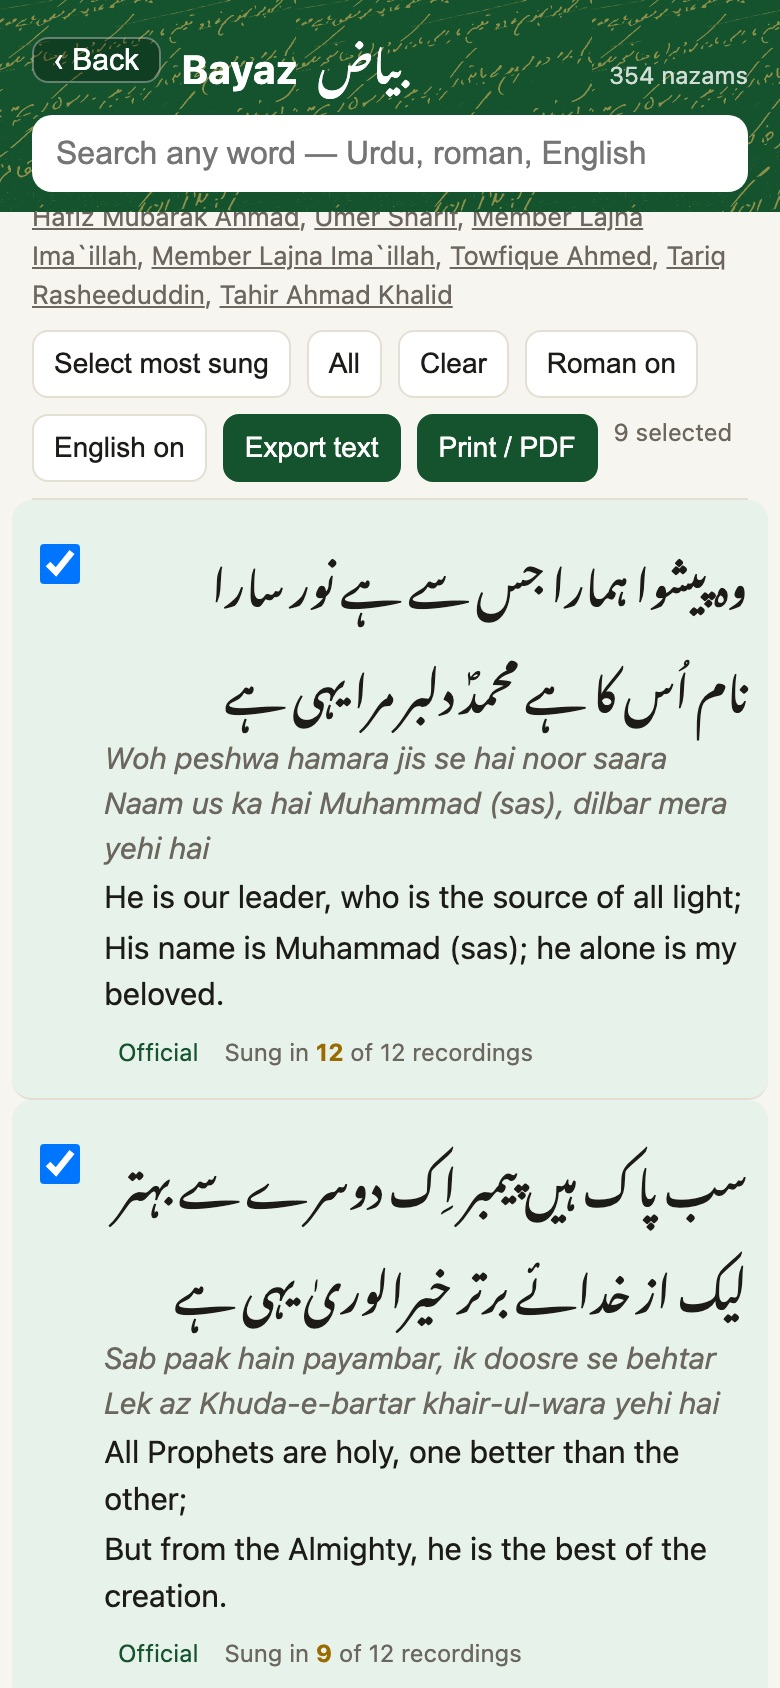
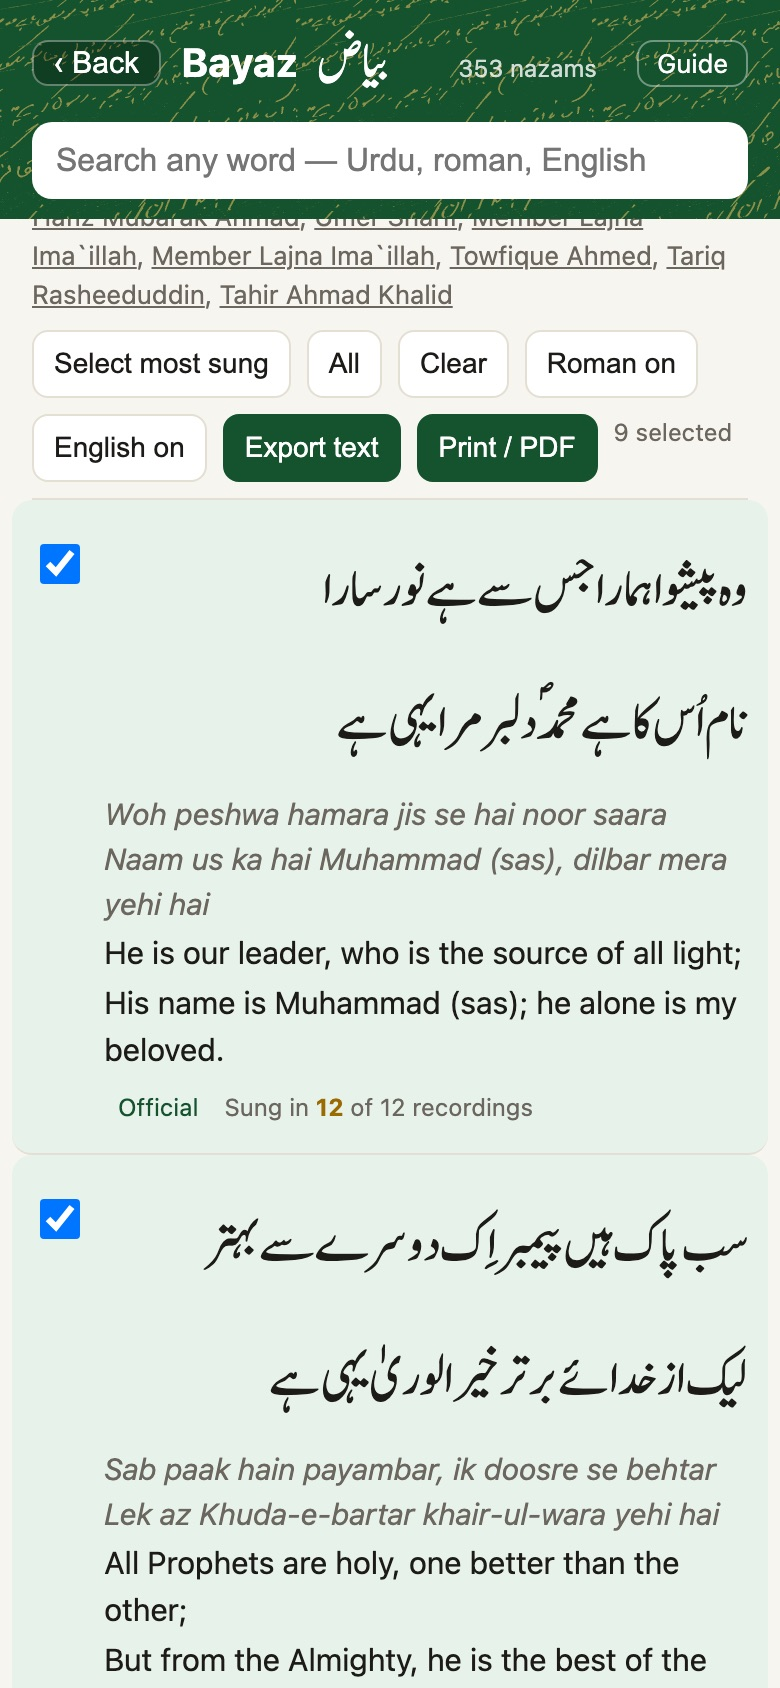
Real fonts, Guide button, back-to-top button, updated guide

diff --git a/guide/index.html b/guide/index.html
@@ -40,7 +40,7 @@ footer{color:var(--mute);font-size:14px;border-top:1px solid var(--line);padding
 
 <header class="hero"><div class="in">
 <h1>How to use Bayaz <span>بیاض</span></h1>
-<p>A step-by-step guide for murabbis: find a nazam, choose the couplets you need for an ijlas, and take them away as text or PDF in Urdu, transliteration and English.</p>
+<p>A step-by-step guide for murabbis: find a nazam, choose the couplets you need for an ijlas, and take them away as text or PDF in Urdu, transliteration and English.</p><p><a href="https://mustjabq15-hue.github.io/bayaz/" style="color:#fff;font-weight:600">Open Bayaz → mustjabq15-hue.github.io/bayaz/</a></p>
 </div></header>
 
 <div class="wrap">
@@ -52,58 +52,59 @@ footer{color:var(--mute);font-size:14px;border-top:1px solid var(--line);padding
 <section class="step" id="phone" style="display:block">
 <div class="k">Step 9</div><h2>Keep it on your iPhone</h2>
 <ol class="marks">
-<li><span class="n">1</span><div>Open the Bayaz link in <b>Safari</b>.</div></li>
+<li><span class="n">1</span><div>Open <b>https://mustjabq15-hue.github.io/bayaz/</b> in <b>Safari</b>.</div></li>
 <li><span class="n">2</span><div>Tap the <b>Share</b> button (square with an arrow), then <b>Add to Home Screen</b>.</div></li>
 <li><span class="n">3</span><div>Bayaz now opens like an app and works without internet after the first visit.</div></li>
 </ol>
-<div class="tip w"><b>For now:</b> the app is not on GitHub yet, so use the preview link. The preview cannot download files or print; those two buttons appear once it is on GitHub Pages.</div>
+<div class="tip"><b>Bayaz link:</b> <a href="https://mustjabq15-hue.github.io/bayaz/" style="color:inherit">https://mustjabq15-hue.github.io/bayaz/</a></div>
 </section>
 
-<footer>Screens are from Bayaz with 354 nazams. Fonts in the screenshots are fallbacks; the app will use Jameel Noori Nastaleeq for Urdu and Noor-e-Huda for Arabic once the font files are added.</footer>
+<footer>Bayaz: <a href="https://mustjabq15-hue.github.io/bayaz/" style="color:inherit">https://mustjabq15-hue.github.io/bayaz/</a> · Urdu in Jameel Noori Nastaleeq, Arabic in Noor-e-Huda. Translations marked unofficial are drafts: check before presenting or publishing.</footer>
 </div>
 
 <script>
 // Each mark: [number, x, y, w, h, side]  — rectangle in phone pixels (390×844), badge on left (L) or right (R).
 const STEPS=[
 {id:"home",img:"home",k:"Step 1",h:"The home screen",marks:[
- [1,16,57,358,39,"R","<b>Search box.</b> Type any word: Urdu, roman Urdu or English. It searches titles, every couplet, the transliteration and the translation."],
- [2,16,145,358,32,"L","<b>Authors.</b> Swipe sideways and tap a poet to see only their nazams. The small number is how many there are."],
- [3,16,213,358,32,"R","<b>Themes.</b> Tap a theme such as <i>Praise of Allah</i>, <i>The Holy Prophet (sas)</i>, <i>Khilafat</i> or <i>Prayer</i>."],
- [4,16,253,358,80,"L","<b>Filters.</b> Poet, language (Urdu, Arabic, Persian, Punjabi), text status, and sort order (most listened, most recordings, A–Z)."],
- [5,16,371,358,375,"R","<b>Nazam card.</b> Tap it to open the complete nazam."]],
+ [1,16,61,358,38,"R","<b>Search box.</b> Type any word: Urdu, roman Urdu or English. It searches titles, every couplet, the transliteration and the translation."],
+ [2,16,145,358,34,"L","<b>Authors.</b> Swipe sideways and tap a poet to see only their nazams. The small number is how many there are."],
+ [3,16,213,358,34,"R","<b>Themes.</b> Tap a theme such as <i>Praise of Allah</i>, <i>The Holy Prophet (sas)</i>, <i>Khilafat</i> or <i>Prayer</i>."],
+ [4,16,257,358,80,"L","<b>Filters.</b> Poet, language (Urdu, Arabic, Persian, Punjabi), text status, and sort order (most listened, most recordings, A–Z)."],
+ [5,16,375,358,341,"R","<b>Nazam card.</b> Tap it to open the complete nazam."]],
  extra:`<p class="ex">What the labels on a card mean:</p><div class="legend"><span class="tag g">Famous · #1</span><span class="tag g">13 recordings</span><span class="tag">Official English</span><span class="tag">Full text</span><span class="tag w">Sung lines only</span></div>
  <dl><dt><span class="tag">Full text</span></dt><dd>The whole nazam, in book order, checked against the book.</dd><dt><span class="tag w">Sung lines only</span></dt><dd>Only the lines heard in a recording, not yet checked against the book. Don't use these for a programme yet.</dd><dt><span class="tag">Official English</span></dt><dd>Some or all couplets have the Jama'at's published translation.</dd></dl>`},
 {id:"search",img:"search",k:"Step 2",h:"Search for a line you remember",marks:[
- [1,16,57,358,39,"R","Type a few words. Here: <code>noor saara</code>. Spelling doesn't need to be exact: <i>noor / nur</i>, <i>saara / sara</i>, <i>hai / he</i> all match, and Urdu without zer-zabar works too."],
- [2,16,340,110,26,"L","How many nazams contain your words."],
- [3,31,591,328,122,"R","<b>The matching couplet</b> is shown on the card, with its number (<i>Couplet 1 of 53</i>), so you can see you found the right one before opening it."]],
+ [1,16,61,358,38,"R","Type a few words. Here: <code>noor saara</code>. Spelling doesn't need to be exact: <i>noor / nur</i>, <i>saara / sara</i>, <i>hai / he</i> all match, and Urdu without zer-zabar works too."],
+ [2,16,347,110,20,"L","How many nazams contain your words."],
+ [3,31,609,328,138,"R","<b>The matching couplet</b> is shown on the card, with its number (<i>Couplet 1 of 53</i>), so you can see you found the right one before opening it."]],
  extra:`<div class="tip"><b>Best results first.</b> A nazam whose title or a single couplet contains your exact words appears at the top.</div>`},
 {id:"author",img:"author",k:"Step 3",h:"Browse by author",marks:[
- [1,16,254,175,35,"L","Pick a poet here (or tap their chip in the Authors row)."],
- [2,16,343,358,105,"R","The green box shows the poet's name in English and Urdu, and how many nazams they have in Bayaz."]],
+ [1,16,257,175,36,"L","Pick a poet here (or tap their chip in the Authors row)."],
+ [2,16,347,358,105,"R","The green box shows the poet's name in English and Urdu, and how many nazams they have in Bayaz."]],
  extra:`<p class="ex">To go back to everyone, choose <b>All authors</b>. Filters can be combined, e.g. a poet + the theme <i>The Holy Prophet (sas)</i>.</p>`},
 {id:"nazam",img:"detail",k:"Step 4",h:"The nazam page",marks:[
- [1,16,19,64,23,"L","<b>‹ Back</b> returns to the list. It stays at the top while you scroll."],
- [2,16,349,358,166,"R","<b>Where the text comes from:</b> book, page numbers and original work. Use this when you cite the nazam."],
- [3,16,528,290,24,"L","<b>Open in the book</b> shows the page on alislam.org. <b>Listen</b> opens the recordings."],
- [4,16,661,358,102,"R","<b>Tools:</b> select couplets, show or hide <i>Roman</i> and <i>English</i>, then export."]]},
+ [1,16,20,65,23,"L","<b>‹ Back</b> returns to the list. It stays at the top while you scroll."],
+ [2,16,370,358,167,"R","<b>Where the text comes from:</b> book, page numbers and original work. Use this when you cite the nazam."],
+ [3,16,547,358,24,"L","<b>Open in the book</b> shows the page on alislam.org. <b>Listen</b> opens the recordings."],
+ [4,16,675,358,93,"R","<b>Tools:</b> select couplets, show or hide <i>Roman</i> and <i>English</i>, then export."]],
+ extra:`<div class="tip"><b>Long nazam?</b> When you scroll down, a round <b>↑</b> button appears at the bottom right. Tap it to jump back to the top. <b>Guide</b> in the top bar opens this guide.</div>`},
 {id:"found",img:"found",k:"Step 5",h:"Opened from a search",marks:[
- [1,10,270,370,308,"L","When you open a nazam from a search, the page jumps straight to the matching couplet and draws a <b>gold outline</b> around it. The rest of the nazam is above and below, in book order."]],
+ [1,16,258,358,328,"L","When you open a nazam from a search, the page jumps straight to the matching couplet and draws a <b>gold outline</b> around it. The rest of the nazam is above and below, in book order."]],
  extra:`<div class="tip"><b>Every nazam is complete.</b> Parts sung separately on alislam.org are inside their full nazam, so you always see the context of the couplet you want.</div>`},
 {id:"choose",img:"select",k:"Step 6",h:"Choose your couplets",marks:[
  [1,20,272,20,20,"L","Tick the box beside each couplet you want. A ticked couplet turns green."],
  [2,16,165,238,34,"L","<b>Select most sung</b> ticks the couplets reciters usually choose; untick or add others from anywhere in the nazam. <b>All</b> ticks every couplet, <b>Clear</b> unticks them."],
- [3,263,165,86,34,"R","<b>Roman on/off</b> hides or shows the transliteration."],
+ [3,262,165,87,34,"R","<b>Roman on/off</b> hides or shows the transliteration."],
  [4,16,207,87,34,"L","<b>English on/off</b> hides or shows the translation."],
- [5,111,205,258,37,"R","<b>Export text</b> and <b>Print / PDF</b> become active once something is ticked. Beside them: how many couplets you've chosen."]],
+ [5,111,207,255,34,"R","<b>Export text</b> and <b>Print / PDF</b> become active once something is ticked. Beside them: how many couplets you've chosen."]],
  extra:`<p class="ex">Under each couplet: <i>Sung in 12 of 12 recordings</i> shows how popular that couplet is.</p>`},
 {id:"check",img:"warn",k:"Step 7",h:"Official or unofficial translation?",marks:[
- [1,52,224,54,24,"L","<span class='tag'>Official</span> — the Jama'at's published translation. Its source is added to your export automatically."],
- [2,52,677,183,24,"R","<span class='tag w'>Unofficial — check before use</span> — a draft translation. Check it before presenting or publishing."]],
+ [1,52,225,54,22,"L","<span class='tag'>Official</span> — the Jama'at's published translation. Its source is added to your export automatically."],
+ [2,52,598,183,22,"R","<span class='tag w'>Unofficial — check before use</span> — a draft translation. Check it before presenting or publishing."]],
  extra:`<div class="tip w"><b>Before a programme:</b> when you export, couplets with an unofficial translation get a <b>*</b> and a reminder line at the end, so it is never mistaken for an official translation.</div>`},
 {id:"export",img:"export",k:"Step 8",h:"Export: Urdu → Roman → English",marks:[
- [1,32,218,326,388,"R","Your chosen couplets, each one as <b>Urdu</b>, then <b>transliteration</b>, then <b>English</b>. At the bottom: the book and the official translation used."],
- [2,32,622,169,34,"L","<b>Copy</b>, then paste into WhatsApp, Word or your programme sheet. <b>Download .txt</b> saves it as a file (once Bayaz is on GitHub)."]],
+ [1,32,218,327,388,"R","Your chosen couplets, each one as <b>Urdu</b>, then <b>transliteration</b>, then <b>English</b>. At the bottom: the book and the official translation used."],
+ [2,32,622,170,34,"L","<b>Copy</b>, then paste into WhatsApp, Word or your programme sheet. <b>Download .txt</b> saves it as a file."]],
  extra:`<div class="tip"><b>For a PDF:</b> close this box and tap <b>Print / PDF</b>. On iPhone choose <i>Save to Files</i> or share it; on a computer choose <i>Save as PDF</i>. The PDF uses large centred Urdu, ready to print.</div>`}];
 
 const W=390,H=844,G=46;

diff --git a/index.html b/index.html
@@ -23,6 +23,9 @@ header.top{position:sticky;top:0;z-index:5;background:#14532d;color:#fff;padding
 header.top::before{content:"";position:absolute;inset:0;z-index:-1;background:url(header-script.png) 0 0/auto 170px repeat;opacity:.6;pointer-events:none}
 @media (prefers-color-scheme:dark){header.top{background:#174f2f}}
 .hback{background:rgba(0,0,0,.25);border:1px solid rgba(255,255,255,.35);color:#fff;border-radius:8px;padding:2px 10px;font-size:15px;cursor:pointer;align-self:center}
+.hguide{color:#fff;font-size:13px;margin-left:10px;border:1px solid rgba(255,255,255,.4);border-radius:8px;padding:1px 9px;text-decoration:none;align-self:center}
+#totop{position:fixed;right:calc(16px + env(safe-area-inset-right));bottom:calc(20px + env(safe-area-inset-bottom));z-index:6;width:48px;height:48px;border-radius:50%;border:0;background:#14532d;color:#fff;font-size:22px;line-height:48px;box-shadow:0 3px 10px rgba(0,0,0,.3);cursor:pointer;opacity:.92}
+@media print{#totop{display:none!important}}
 .hit{background:var(--brand2);border-radius:8px;padding:6px 8px;margin-top:6px;font-size:14px}
 .hit .ur{font-size:21px;line-height:2}
 .unit.found{outline:2px solid var(--gold);outline-offset:4px;border-radius:6px}
@@ -94,11 +97,12 @@ textarea{width:100%;height:46vh;font:14px/1.6 ui-monospace,Menlo,monospace;borde
 </head>
 <body>
 <header class="top">
-  <div class="brand"><button class="hback" id="hb" hidden onclick="event.stopPropagation();history.length>1?history.back():location.hash=''">‹ Back</button><b onclick="location.hash=''">Bayaz</b><span onclick="location.hash=''">بیاض</span><small id="ver"></small></div>
+  <div class="brand"><button class="hback" id="hb" hidden onclick="event.stopPropagation();history.length>1?history.back():location.hash=''">‹ Back</button><b onclick="location.hash=''">Bayaz</b><span onclick="location.hash=''">بیاض</span><small id="ver"></small><a class="hguide" href="guide/" onclick="event.stopPropagation()">Guide</a></div>
   <input id="q" type="search" placeholder="Search any word — Urdu, roman, English" autocomplete="off">
 </header>
 <main id="app">Loading…</main>
 <div id="print"></div>
+<button id="totop" hidden aria-label="Back to top" title="Back to top">↑</button>
 <dialog id="dlg"><h2>Export text</h2><textarea id="txt" readonly></textarea>
   <div style="display:flex;gap:8px;margin-top:10px;flex-wrap:wrap"><button class="b p" id="copy">Copy</button><button class="b" id="dl">Download .txt</button><button class="b" onclick="dlg.close()">Close</button></div></dialog>
 <script>
@@ -118,6 +122,7 @@ const cls=(n,line)=>isAr(n,line)?"ar":"ur";
 const stLabel={official:"Official translation",["unofficial-draft"]:"Unofficial translation — check before presenting or publishing",none:"No translation yet"};
 fetch("data/bayaz.json").then(r=>r.json()).then(d=>{D=d;D.nazms.forEach(n=>{n.units.forEach(u=>u._s=nrm([...u.u,...u.r,u.ut||"",...u.e,u.note||""].join(" ")));n._s=nrm([n.t,n.tu,...(n.also||[]).flatMap(a=>[a.t,a.tu]),n.poet,n.poetU,n.themes.map(t=>D.themes[t]).join(" "),n.source&&n.source.book,n.source&&n.source.originalWork].join(" "))+" "+n.units.map(u=>u._s).join(" ")});$("#ver").textContent=D.nazms.length+" nazams";route()}).catch(e=>{$("#app").textContent="Could not load data: "+e});
 addEventListener("hashchange",route);
+const tt=$("#totop");addEventListener("scroll",()=>{tt.hidden=scrollY<700},{passive:true});tt.onclick=()=>window.scrollTo({top:0,behavior:"smooth"});
 $("#q").addEventListener("input",e=>{S.q=e.target.value;if(location.hash.startsWith("#/n/"))location.hash="";else list()});
 function route(){const m=location.hash.match(/^#\/n\/(.+)$/);if(m){const n=D.nazms.find(x=>x.slug===decodeURIComponent(m[1]));if(n){detail(n);return}}list()}
 function filtered(){const q=qWords();let a=D.nazms.filter(n=>(!S.theme||n.themes.includes(S.theme))&&(!S.poet||n.poet===S.poet)&&(!S.lang||n.lang===S.lang)&&(!S.level||(S.level==="official"?n.units.some(u=>u.st==="official"):n.level===S.level))&&q.every(w=>n._s.includes(w)));
